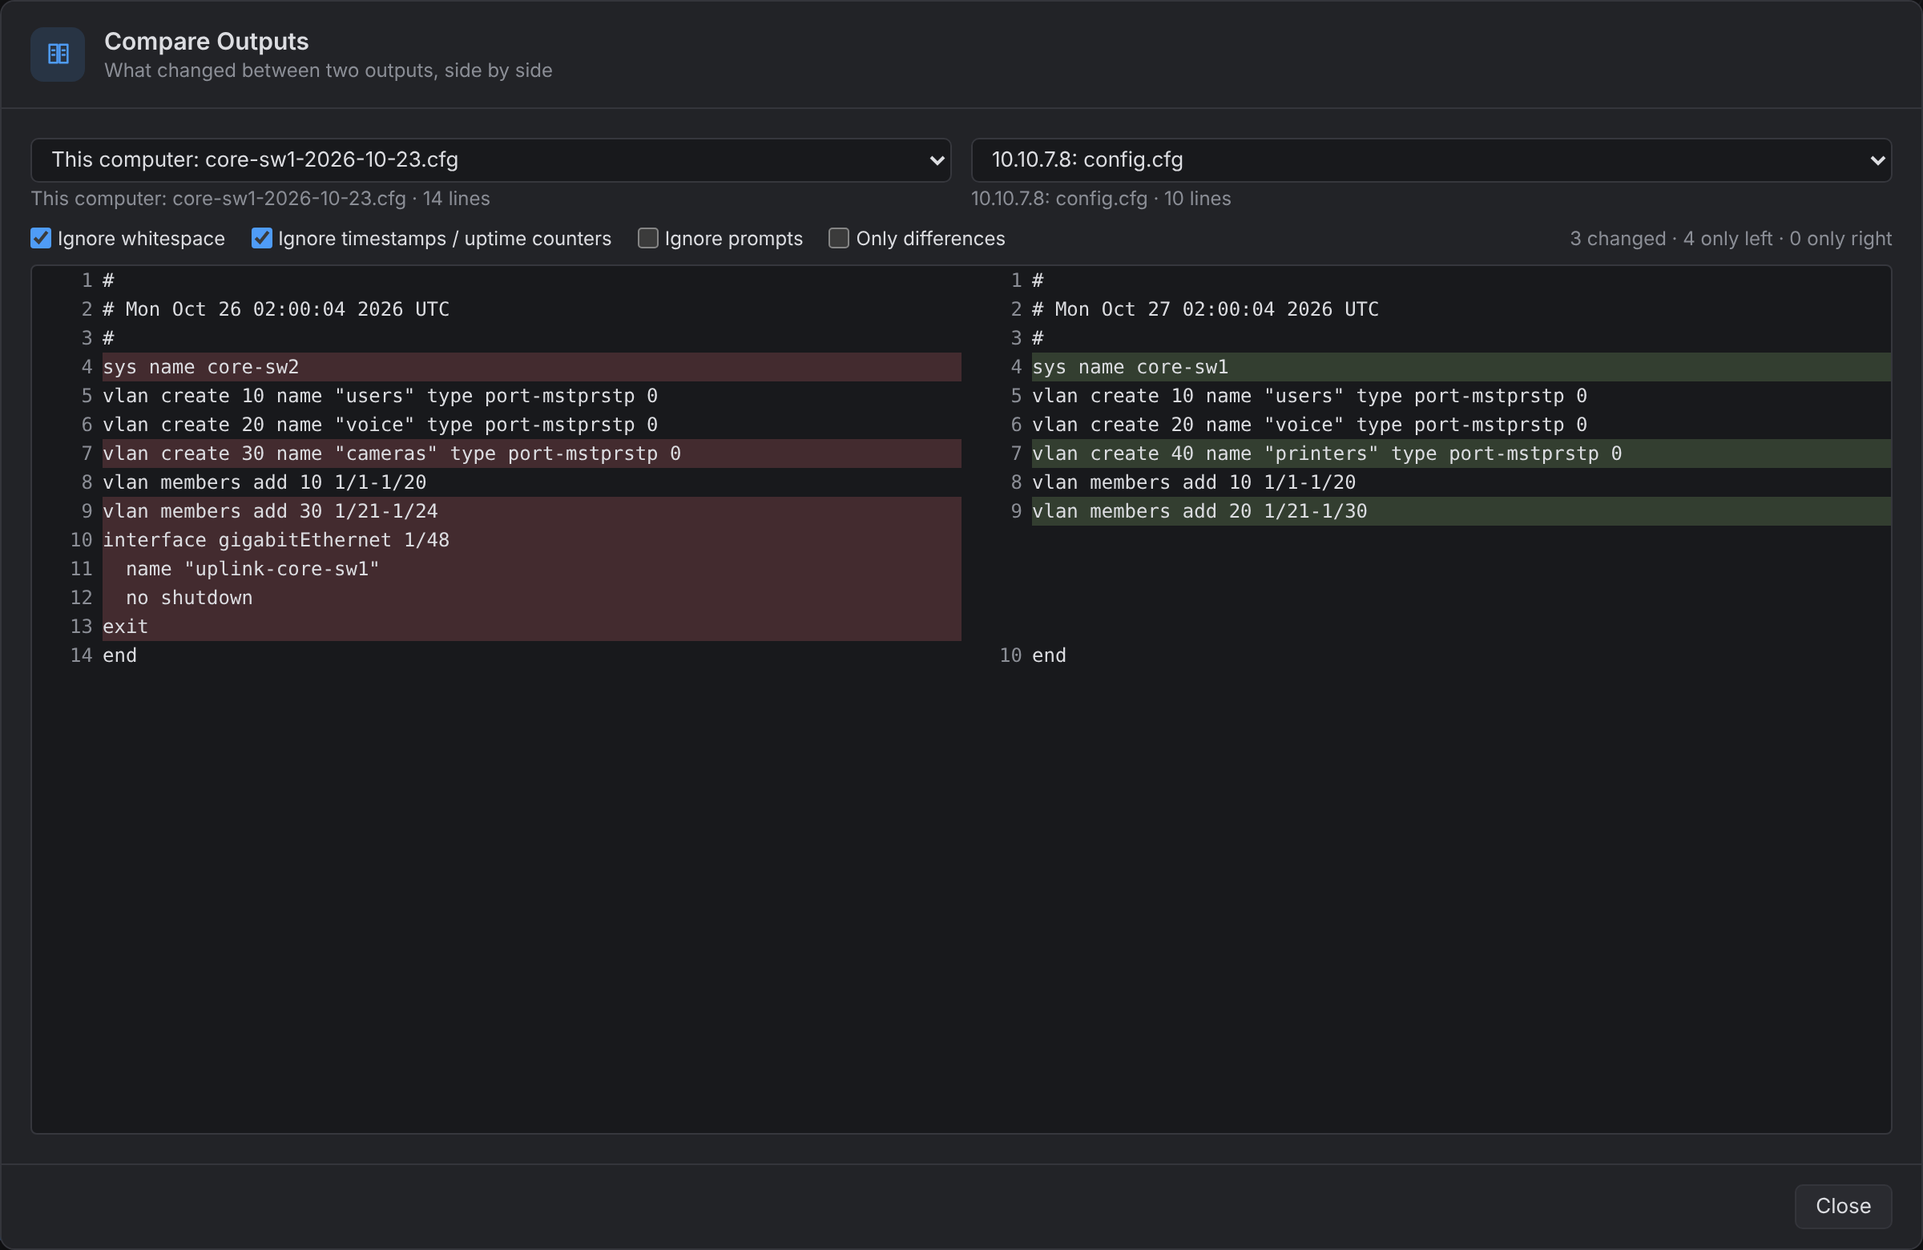
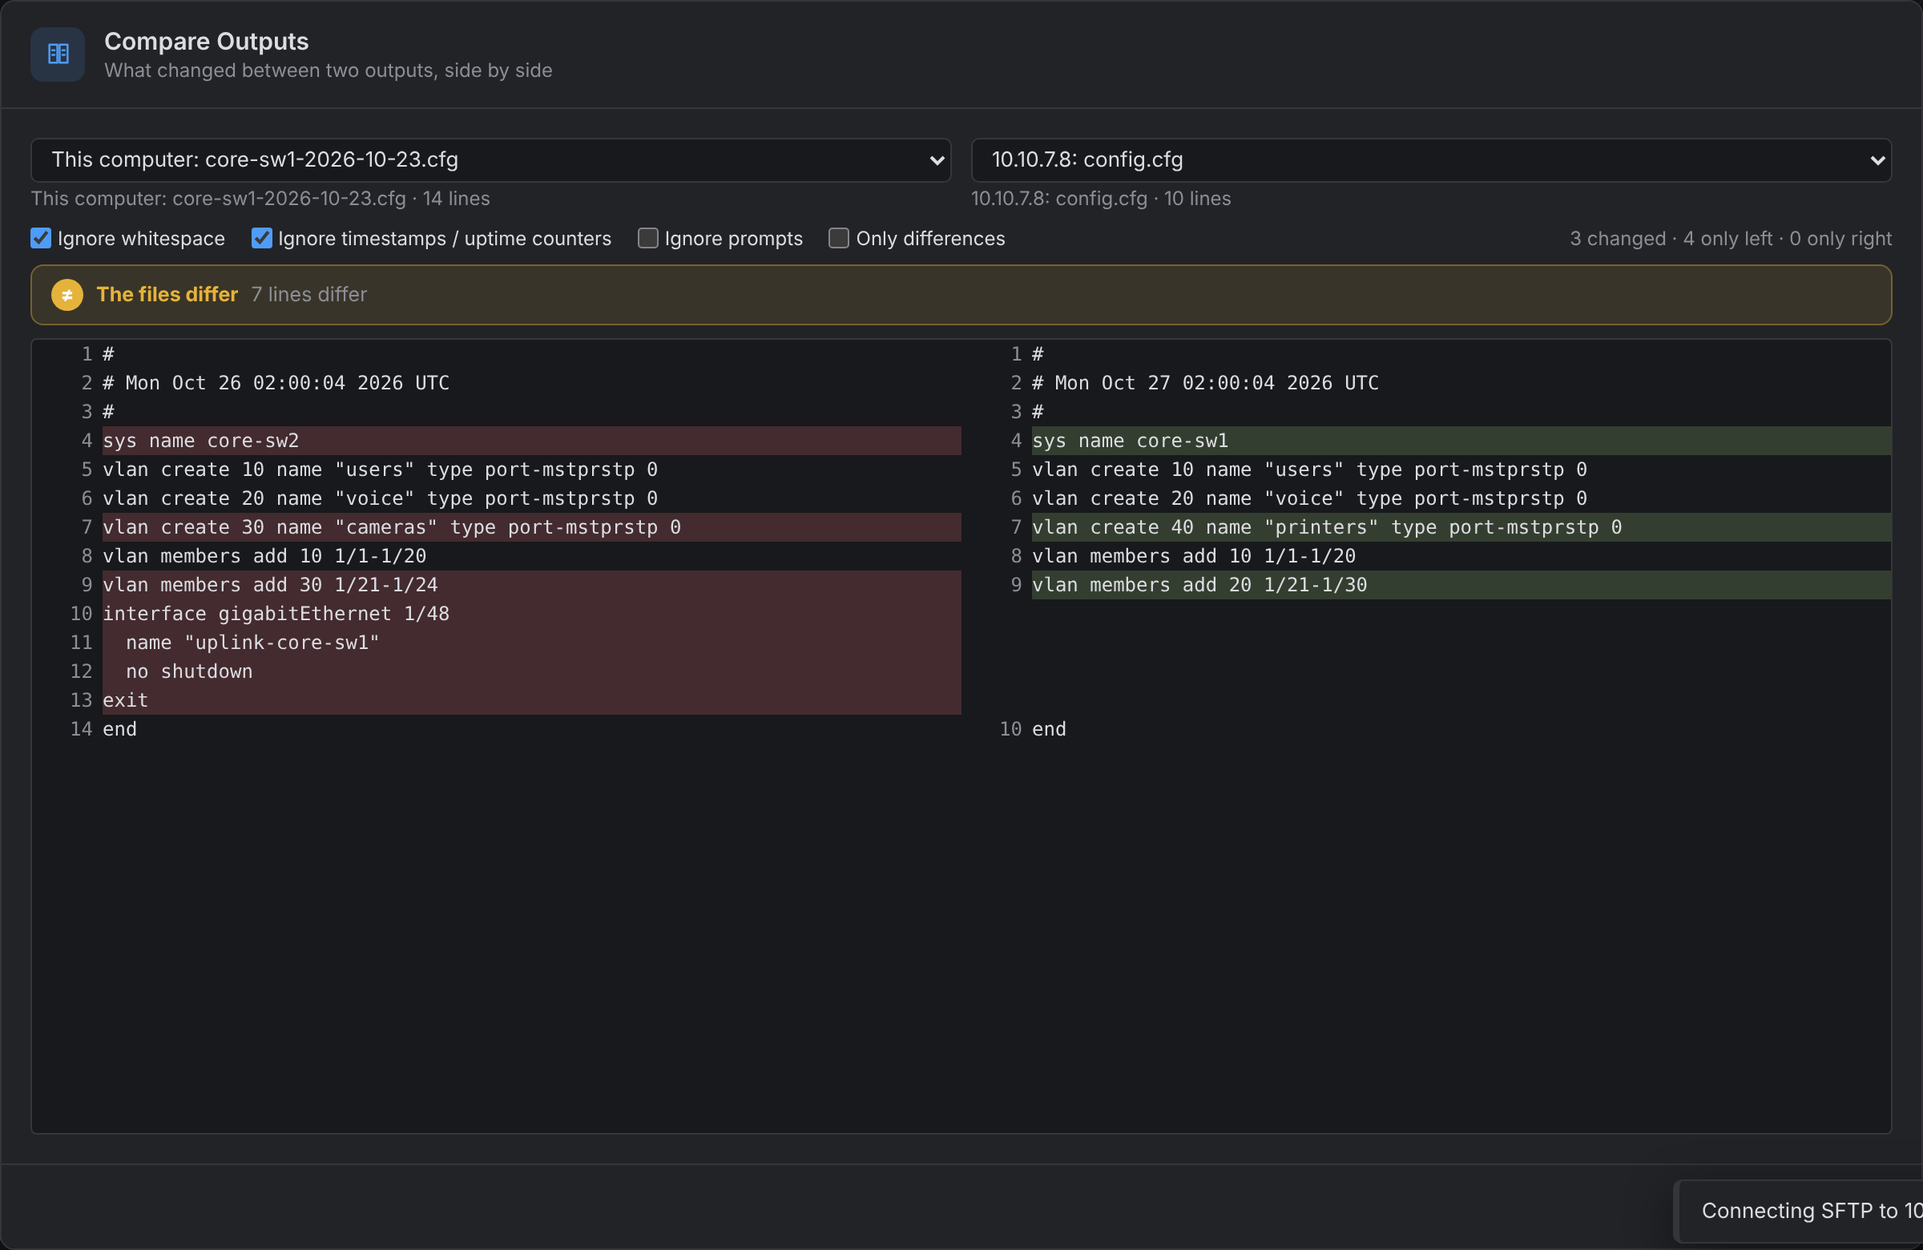
SFTP Diff any two files with an identical/different verdict; follow the terminal across jump station and target; SFTP sessions follow a terminal of the same session

Changed region(s): [[0.0, 0.1846, 1.0, 0.5846], [0.9062, 0.9538, 1.0, 0.9846]]

diff --git a/frontend/src/app/components/sftp-view.ts b/frontend/src/app/components/sftp-view.ts
@@ -47,7 +47,8 @@ interface Pane {
         @if (shell()) {
           <button class="root-btn" [class.on]="follow()" (click)="terminalMenu($event)"
             [title]="shell()!.cwd ? 'Terminal folder: ' + shell()!.cwd + (follow() ? ' (following)' : '') : 'The terminal does not report its folder yet'">
-            &gt;_ {{ follow() ? 'Following' : 'Terminal' }} ▾</button>
+            &gt;_ {{ follow() ? 'Following' : 'Terminal' }} ▾</button>        } @else if (elsewhere()) {
+          <button class="root-btn away" (click)="elsewhereMenu($event)" [title]="'The terminal is on ' + elsewhere() + ', not on the host this tab browses - click to switch this tab there'">&gt;_ On {{ shortHost(elsewhere()) }} ▾</button>
         }
         <select class="pill" [ngModel]="via()" (ngModelChange)="setVia($event)" [disabled]="!!tab().root"
           title="Protocol used by → and ← (browsing always uses SFTP). SCP helps with devices whose SFTP server is slow or limited.">
@@ -92,7 +93,8 @@ interface Pane {
               @if (p.side === 'remote' && shell()) {
                 <button class="root-btn" [class.on]="follow()" (click)="terminalMenu($event)"
                   [title]="shell()!.cwd ? 'Terminal folder: ' + shell()!.cwd + (follow() ? ' (following)' : '') : 'The terminal does not report its folder yet'">
-                  &gt;_ {{ follow() ? 'Following' : 'Terminal' }} ▾</button>
+                  &gt;_ {{ follow() ? 'Following' : 'Terminal' }} ▾</button>              } @else if (p.side === 'remote' && elsewhere()) {
+                <button class="root-btn away" (click)="elsewhereMenu($event)" [title]="'The terminal is on ' + elsewhere() + ', not on the host this tab browses'">&gt;_ On {{ shortHost(elsewhere()) }} ▾</button>
               }
               <button class="icon-btn bm" [class.on]="isBookmarked(p)" title="Bookmarks" (click)="bookmarkMenu($event, p)">{{ isBookmarked(p) ? '★' : '☆' }}</button>
             }
@@ -138,7 +140,7 @@ interface Pane {
               <button class="ar sy" title="Sync this computer → server: copy new and changed files of the left folder into the right folder (nothing is deleted)" (click)="sync('up')"><app-icon name="sync-right" [size]="16" /></button>
               <button class="ar sy" title="Sync server → this computer: copy new and changed files of the right folder into the left folder (nothing is deleted)" (click)="sync('down')"><app-icon name="sync-left" [size]="16" /></button>
               <span class="ml">Diff</span>
-              <button class="ar sy" [disabled]="!canCompare()" [title]="canCompare() ? 'Compare ' + one(local()) + ' with ' + one(remote()) : 'Compare: select one file on each side'" (click)="compare()"><app-icon name="compare" [size]="16" /></button>
+              <button class="ar sy" [disabled]="!canCompare()" [title]="compareTitle()" (click)="compare()"><app-icon name="compare" [size]="16" /></button>
             </div>
           } @else {
             <div class="mid">
@@ -273,20 +275,32 @@ export class SftpView implements OnInit {
     return dt > .2 && t.total ? ' · ' + this.size((t.total - m.b0) / dt) + '/s' : '';
   }
   /** One file selected on each side: they can be compared. */
-  canCompare() {
-    const one = (p: Pane) => p.selected.size === 1 && !p.entries.find(e => e.name === [...p.selected][0])?.isDir;
-    return one(this.local()) && one(this.remote());
+  /** The selected files of both panes (Compare takes exactly two). */
+  private picks() {
+    const out: { p: Pane; name: string }[] = [];
+    for (const p of [this.local(), this.remote()]) for (const n of p.selected) out.push({ p, name: n });
+    return out;
   }
-  one(p: Pane) { return [...p.selected][0] ?? ''; }
-  /** Opens Compare with the selected local and remote file (text, up to 5 MB). */
+  canCompare() {
+    const ps = this.picks();
+    return ps.length === 2 && ps.every(x => !x.p.entries.find(e => e.name === x.name)?.isDir);
+  }
+  compareTitle() {
+    const ps = this.picks();
+    if (this.canCompare()) return 'Compare ' + ps[0].name + ' with ' + ps[1].name;
+    return ps.length > 2 ? 'Compare: select only two files' : 'Compare: select two files - one on each side, or both on the same side';
+  }
+  /** Opens Compare with the two selected files (text, up to 5 MB each), from either side. */
   async compare() {
     if (!this.canCompare()) return;
-    const l = this.local(), r = this.remote();
-    const ln = this.one(l), rn = this.one(r);
+    const host = this.tab().hopTarget || this.hostOnly();
+    const read = (x: { p: Pane; name: string }) => x.p.side === 'local'
+      ? this.backend.readTextFile(this.join(x.p, x.name)) : this.backend.sftpReadText(this.sid(), this.join(x.p, x.name));
+    const ps = this.picks();
+    const label = (x: { p: Pane; name: string }) => (x.p.side === 'local' ? 'This computer' : host) + ': ' + x.name;
     try {
-      const [a, b] = await Promise.all([this.backend.readTextFile(this.join(l, ln)), this.backend.sftpReadText(this.sid(), this.join(r, rn))]);
-      const host = this.tab().hopTarget || this.hostOnly();
-      this.ui.compareTexts.set([{ label: 'This computer: ' + ln, text: a }, { label: host + ': ' + rn, text: b }]);
+      const [a, b] = await Promise.all(ps.map(read));
+      this.ui.compareTexts.set([{ label: label(ps[0]), text: a }, { label: label(ps[1]), text: b }]);
       this.ui.open('compare');
     } catch (e) { this.ui.error(e); }
   }
@@ -361,6 +375,45 @@ export class SftpView implements OnInit {
 
   private loadFlag(k: string) { try { return localStorage.getItem(k) === '1'; } catch { return false; } }
   private saveFlag(k: string, v: boolean) { try { localStorage.setItem(k, v ? '1' : '0'); } catch { /* ignore */ } }
+
+  /** The terminal of a jump-station session, when its shell is on the other host than this tab browses. */
+  private hopTerm = computed(() => {
+    const p = this.tabs.linkedTerm(this.tab());
+    return p?.hopTarget && !this.shell() ? p : undefined;
+  });
+  /** Where the terminal is (the target or the jump station), when this tab cannot follow it. */
+  readonly elsewhere = computed(() => {
+    const p = this.hopTerm();
+    if (!p) return '';
+    return this.tabs.onJump(p) ? p.session.hostname : p.hopTarget!;
+  });
+  shortHost(h: string) { h = h.slice(h.lastIndexOf('@') + 1); return h.split('.')[0]; }
+
+  elsewhereMenu(ev: MouseEvent) {
+    const p = this.hopTerm();
+    if (!p) return;
+    const where = this.elsewhere();
+    this.ui.showMenu(ev, [
+      { label: 'The terminal is on ' + where, disabled: true },
+      { label: 'Switch This Tab to ' + where, action: () => void this.switchHost() },
+      { separator: true },
+      { label: 'Check Where the Terminal Is (folder detection)', action: () => {
+        if (p.state !== 'connected') { this.ui.toast('The terminal tab is not connected.', 'error'); return; }
+        void this.tabs.enableCwdReporting(p.id, false, true);
+      } },
+    ]);
+  }
+
+  /** Reopens this SFTP tab on the host the terminal is on (jump station ↔ target). */
+  async switchHost() {
+    const p = this.hopTerm();
+    if (!p) return;
+    const me = this.tab().id;
+    const mode = this.tab().hopTarget ? 'jump' : 'target';
+    const before = this.tabs.tabs().length;
+    await this.tabs.openSftp(p.id, mode);
+    if (this.tabs.tabs().length > before) void this.tabs.close(me);
+  }
 
   terminalMenu(ev: MouseEvent) {
     const sh = this.shell();

diff --git a/frontend/src/app/core/tabs.service.ts b/frontend/src/app/core/tabs.service.ts
@@ -54,6 +54,8 @@ export interface TabView {
   cwd?: string;
   /** Terminal tab: user the shell runs as (OSC 1337 RemoteHost=user@host), e.g. root after "sudo su -". */
   shellUser?: string;
+  /** Terminal tab: host the shell reports (OSC 7 file://host/… or RemoteHost=user@host); '' after ssh / exit until it reports again. */
+  shellHost?: string;
   /** SFTP tab: folder to open first (the terminal's folder), falls back to home. */
   startDir?: string;
 }
@@ -200,9 +202,34 @@ export class Tabs {
    * qualifies (the terminal shows the target, not the jump station).
    */
   shellOf(sftp: TabView): TabView | undefined {
-    const p = this.get(sftp.parentId);
-    if (!p || p.kind !== 'terminal' || (p.hopTarget && !sftp.hopTarget)) return undefined;
+    const p = this.linkedTerm(sftp);
+    if (!p) return undefined;
+    // A session through a jump station: the terminal shows the target, unless
+    // its shell reports the jump station's host (after "exit" from the target).
+    if (p.hopTarget && !!sftp.hopTarget === this.onJump(p)) return undefined;
     return p;
+  }
+
+  /**
+   * The terminal tab an SFTP tab belongs to: the tab it was opened from, or -
+   * for an SFTP session with its own login - an open terminal tab of the same
+   * session (same address and user).
+   */
+  linkedTerm(sftp: TabView): TabView | undefined {
+    if (sftp.kind !== 'sftp') return undefined;
+    const p = this.get(sftp.parentId);
+    if (p) return p.kind === 'terminal' ? p : undefined;
+    const s = sftp.session;
+    const same = (t: TabView) => t.kind === 'terminal' && t.session.protocol === 'SSH2' &&
+      (s.path ? t.session.path === s.path : t.session.hostname === s.hostname && (t.session.username ?? '') === (s.username ?? '') && (t.session.port || 22) === (s.port || 22));
+    const all = this.tabs().filter(same);
+    return all.find(t => t.id === this.activeId()) ?? all.find(t => t.state === 'connected') ?? all[0];
+  }
+
+  /** The terminal of a jump-station session reports the jump station's host. */
+  onJump(p: TabView) {
+    const short = (h: string) => h.slice(h.lastIndexOf('@') + 1).split('.')[0].toLowerCase();
+    return !!p.shellHost && !!p.session.hostname && short(p.shellHost) === short(p.session.hostname);
   }
 
   /**
@@ -214,10 +241,19 @@ export class Tabs {
    * (silently); the SFTP tab then follows the folder and switches user.
    */
   afterCommand(id: string, cmd: string) {
-    if (this.ui.settings()?.sftpCwdAuto === false) return;
     const c = cmd.trim();
-    if (!/^(sudo\s+(-\S+\s+)*(su\b|-i\b|-s\b|bash\b|zsh\b|-iu\s|-u\s+\S+\s+(-i|-s|bash|zsh)\b)|su\b|exec\s+(bash|zsh)\b|(bash|zsh)(\s+-l)?$)/.test(c)) return;
-    if (!this.tabs().some(t => t.kind === 'sftp' && t.parentId === id)) return;
+    // ssh to another host or exit / logout: the host is not known until the
+    // shell reports again.
+    const leave = /^(exit|logout)\b/.test(c);
+    if ((leave || /^ssh\s/.test(c)) && this.get(id)?.shellHost) this.patch(id, { shellHost: '' });
+    if (this.ui.settings()?.sftpCwdAuto === false) return;
+    // Leaving the target of a jump-station session with an SFTP tab on the
+    // jump station open: turn reporting on in the shell it returns to, so that
+    // tab can follow it there.
+    const t0 = this.get(id);
+    const jumpTab = !!t0?.hopTarget && this.tabs().some(t => t.kind === 'sftp' && this.linkedTerm(t)?.id === id && !t.hopTarget);
+    if (!(leave && jumpTab) && !/^(sudo\s+(-\S+\s+)*(su\b|-i\b|-s\b|bash\b|zsh\b|-iu\s|-u\s+\S+\s+(-i|-s|bash|zsh)\b)|su\b|exec\s+(bash|zsh)\b|(bash|zsh)(\s+-l)?$)/.test(c)) return;
+    if (!this.tabs().some(t => t.kind === 'sftp' && this.linkedTerm(t)?.id === id)) return;
     let tries = 0;
     const tick = () => {
       const term = this.handles.get(id)?.term;
@@ -486,6 +522,7 @@ export class Tabs {
     };
     this.tabs.update(l => [...l, tv]);
     this.activeId.set(tv.id);
+    void this.autoCwd(tv); // when a terminal tab of this session is open
   }
 
   async openAdHoc(s: Session) {

diff --git a/frontend/src/app/dialogs/compare.ts b/frontend/src/app/dialogs/compare.ts
@@ -82,6 +82,9 @@ export function diffLines(a: string[], b: string[], norm: (s: string) => string)
           <label><input type="checkbox" [ngModel]="onlyDiff()" (ngModelChange)="onlyDiff.set($event)" /> Only differences</label>
           <span class="stat">{{ stats() }}</span>
         </div>
+        @if (verdict(); as v) {
+          <div class="verdict" [class.same]="v.same"><span class="vi">{{ v.same ? '✓' : '≠' }}</span><b>{{ v.title }}</b><span class="vs">{{ v.sub }}</span></div>
+        }
         <div class="diff mono">
           @for (r of shown(); track $index) {
             <div class="dr {{ r.kind }}">
@@ -100,6 +103,12 @@ export function diffLines(a: string[], b: string[], norm: (s: string) => string)
     .pick { display: grid; grid-template-columns: 1fr 1fr; gap: 12px; }
     .src { display: flex; flex-direction: column; gap: 2px; }
     .opts { display: flex; gap: 16px; align-items: center; margin: 8px 0; font-size: calc(12px * var(--ui-scale, 1)); label { display: flex; gap: 4px; align-items: center; } .stat { margin-left: auto; color: var(--muted); } }
+    .verdict { display: flex; align-items: center; gap: 8px; padding: 8px 12px; margin-bottom: 8px; border-radius: 8px; font-size: calc(12.5px * var(--ui-scale, 1));
+      color: var(--warn, #d97706); background: color-mix(in srgb, var(--warn, #d97706) 12%, transparent); border: 1px solid color-mix(in srgb, var(--warn, #d97706) 35%, transparent);
+      .vi { width: 20px; height: 20px; border-radius: 50%; display: grid; place-items: center; flex: none; font-weight: 700; color: #fff; background: var(--warn, #d97706); }
+      .vs { color: var(--muted); }
+      &.same { color: var(--ok, #16a34a); background: color-mix(in srgb, var(--ok, #16a34a) 12%, transparent); border-color: color-mix(in srgb, var(--ok, #16a34a) 35%, transparent);
+        .vi { background: var(--ok, #16a34a); } } }
     .diff { flex: 1; overflow: auto; border: 1px solid var(--border); border-radius: 4px; font-size: calc(12px * var(--ui-scale, 1)); background: var(--input-bg); }
     .dr { display: grid; grid-template-columns: 44px 1fr 44px 1fr; white-space: pre; line-height: 18px;
       .n { color: var(--muted); text-align: right; padding-right: 6px; user-select: none; }
@@ -201,6 +210,20 @@ export class Compare {
     return diffLines(a, b, norm);
   });
   readonly shown = computed(() => (this.onlyDiff() ? this.rows().filter(r => r.kind !== 'same') : this.rows()));
+  /** Identical / different, shown above the lines. */
+  readonly verdict = computed(() => {
+    const r = this.rows();
+    if (!r.length) return null;
+    const what = this.srcs().every(x => !x.startsWith('tab:')) ? 'files' : 'outputs';
+    const diffs = r.filter(x => x.kind !== 'same').length;
+    if (!diffs) {
+      const [a, b] = this.texts();
+      const exact = !!a && !!b && a.length === b.length && a.every((l, i) => l === b[i]);
+      const ign = [this.ignoreWs() && 'whitespace', this.ignoreTime() && 'timestamps', this.ignorePrompt() && 'prompts'].filter(Boolean).join(', ');
+      return { same: true, title: `The ${what} are identical`, sub: exact ? `${r.length} lines, exactly the same` : `${r.length} lines - same when ${ign || 'normalised'} are ignored` };
+    }
+    return { same: false, title: `The ${what} differ`, sub: `${diffs} ${diffs === 1 ? 'line differs' : 'lines differ'}` };
+  });
   readonly stats = computed(() => {
     const r = this.rows();
     if (!r.length) return '';

diff --git a/frontend/src/app/components/terminal-view.ts b/frontend/src/app/components/terminal-view.ts
@@ -496,15 +496,17 @@ export class TerminalView implements AfterViewInit, OnDestroy {
       if (dir.startsWith('/') && this.tabs.get(id)?.cwd !== dir) this.tabs.patch(id, { cwd: dir });
       return true;
     };
+    const setHost = (h: string) => { h = h.trim(); if (h && this.tabs.get(id)?.shellHost !== h) this.tabs.patch(id, { shellHost: h }); };
     term.parser.registerOscHandler(7, d => {
-      const m = /^file:\/\/[^/]*(\/.*)$/.exec(d.trim());
-      if (m) { try { setCwd(decodeURIComponent(m[1])); } catch { setCwd(m[1]); } }
+      const m = /^file:\/\/([^/]*)(\/.*)$/.exec(d.trim());
+      if (m) { setHost(m[1]); try { setCwd(decodeURIComponent(m[2])); } catch { setCwd(m[2]); } }
       return true;
     });
     term.parser.registerOscHandler(1337, d => {
       if (d.startsWith('CurrentDir=')) return setCwd(d.slice(11));
       if (d.startsWith('RemoteHost=')) {
         const user = d.slice(11).split('@')[0].trim();
+        setHost(d.slice(11).split('@')[1] ?? '');
         if (user && this.tabs.get(id)?.shellUser !== user) this.tabs.patch(id, { shellUser: user });
         return true;
       }

diff --git a/frontend/src/app/components/sftp-view.scss b/frontend/src/app/components/sftp-view.scss
@@ -46,7 +46,8 @@
 
 .via-jump { color: var(--muted); font-weight: normal; }
 .root-btn { height: 22px; padding: 0 8px; font-size: calc(11px * var(--ui-scale, 1)); font-weight: 600; white-space: nowrap;
-  &.on { background: var(--danger, #d9534f); border-color: var(--danger, #d9534f); color: #fff; } }
+  &.on { background: var(--danger, #d9534f); border-color: var(--danger, #d9534f); color: #fff; }
+  &.away { color: var(--muted); border-style: dashed; } }
 
 .cwd-hint { flex: none; display: flex; align-items: center; gap: 8px; margin: 6px 8px 0; padding: 8px 10px; font-size: calc(12px * var(--ui-scale, 1)); line-height: 1.4;
   border: 1px solid color-mix(in srgb, var(--accent) 55%, transparent); background: color-mix(in srgb, var(--accent) 10%, transparent); border-radius: 6px;

diff --git a/CHANGELOG.md b/CHANGELOG.md
@@ -52,6 +52,8 @@ A cleaner, more modern look, now the default. The **Classic** layout (toolbar, t
 * **SFTP through a jump station**: after `sudo su -`, `sudo -i`, `su` or a new shell in the terminal an SFTP tab follows, the folder and user are read again from the new shell, so an SFTP tab opened before becoming root follows root.
 * **SFTP**: the copy arrows, **Sync** (→ / ←) and **Diff** sit between the panes; select one file on each side and Diff opens Compare with both (line numbers, ignore whitespace and timestamps). The transfer bar always shows the speed, and a finished transfer its average speed.
 * **Session Manager**: device types line up in one column (room for any IPv4 address), and a new hover card (device icon, name, address, then Via, device type, facts, MAC and login in two columns) that opens faster.
+* **SFTP Diff**: compares any two selected files - one on each side or both on the same side (disabled with more than two); **Compare** says at the top in green that the files (or outputs) are identical - exactly, or once whitespace / timestamps are ignored - or in amber how many lines differ.
+* **SFTP and the terminal through a jump station**: the terminal's host is read from the shell's folder report, so an SFTP tab on the jump station follows the terminal once you `exit` from the target (folder detection is turned on in the shell you return to), and the target's SFTP tab stops following it. When the terminal is on the other host, the tab shows **>_ On <host> ▾**: Switch This Tab to <host> reopens it there. An SFTP session with its own login follows an open terminal tab of the same session too.
 * **Command History**: wider, a tidy footer, a trash button on each command (or Shift+Delete) to forget a mistyped or no longer supported command, and **Clear History…** (a red button) asks which device types to forget.
 * Passwords & Credentials: Export / Import no longer overlap the fields above them.
 * **Docs**: README, User Guide and FEATURES updated for 0.21, with new screenshots of every page in the modern layout.
